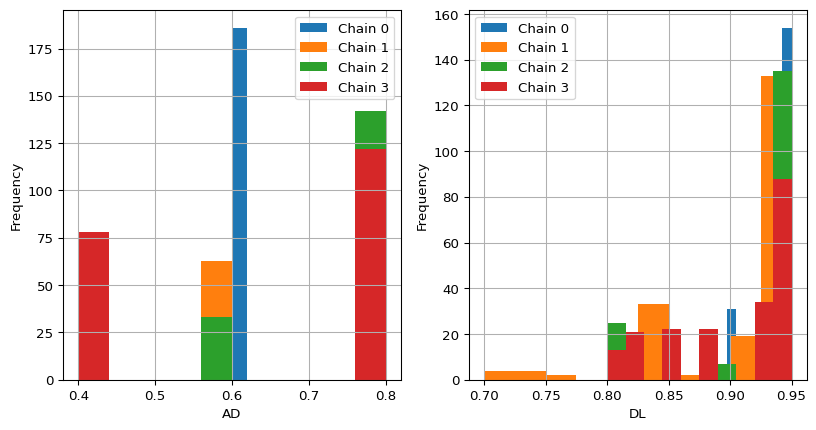
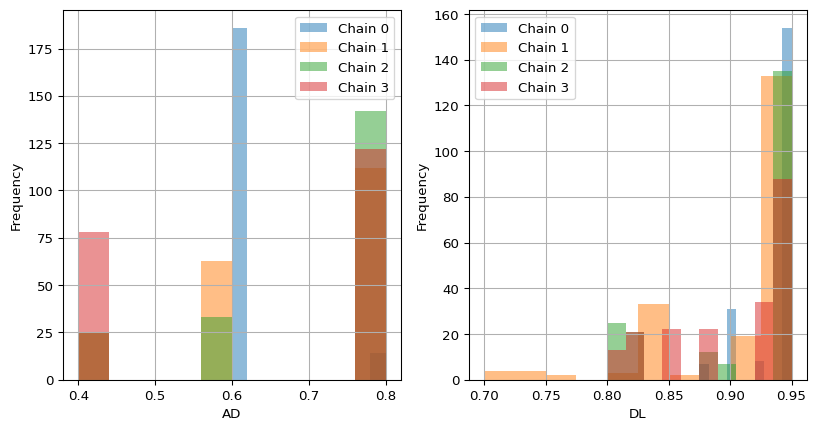
adjust alpha

diff --git a/docs/tutorial/analyzeMCMC.md b/docs/tutorial/analyzeMCMC.md
@@ -33,7 +33,7 @@ initial trees.
 
 ### Generate a ground-truth mutation history and a noisy single-cell mutation profile
 
-The below cell generates a random tree with 4 mutations, plus root. 
+The below cell generates a random tree with 4 mutations, plus root.
 
 <details>
 <summary>Code</summary>
@@ -98,8 +98,6 @@ mut_mat = jnp.array(data['noisy_mutation_mat'])
 ```
 
 </details>
-
-    INFO:pyggdrasil.tree_inference._simulate:Generated cell-mutation data.
 
 ## Run the Markov Monte Carlo Chain
 
@@ -303,8 +301,8 @@ tree.
 # the tree similarities on the x-axis and chains in distinct colors
 fig, axs = plt.subplots(1, 2, figsize=(10, 5))
 for i in range(len(mcmc_datas)):
-    axs[0].hist(results_AD[results_AD["Chain"] == i]["AD"][i], label=f"Chain {i}")
-    axs[1].hist(results_DL[results_DL["Chain"] == i]["DL"][i], label=f"Chain {i}")
+    axs[0].hist(results_AD[results_AD["Chain"] == i]["AD"][i], label=f"Chain {i}", alpha=0.5)
+    axs[1].hist(results_DL[results_DL["Chain"] == i]["DL"][i], label=f"Chain {i}", alpha=0.5)
 axs[0].set_xlabel("AD")
 axs[0].set_ylabel("Frequency")
 axs[0].grid()
